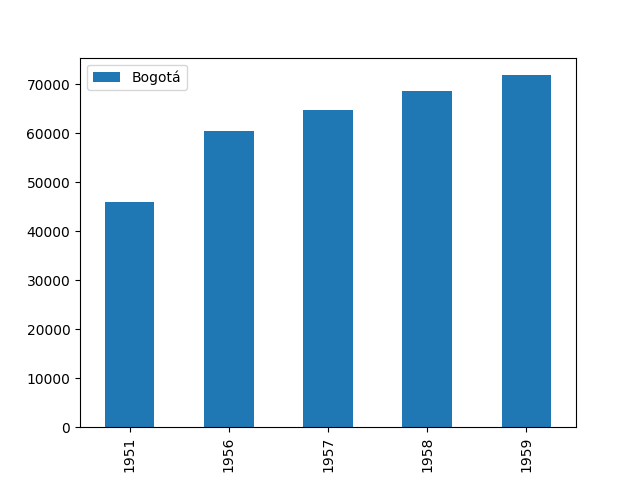
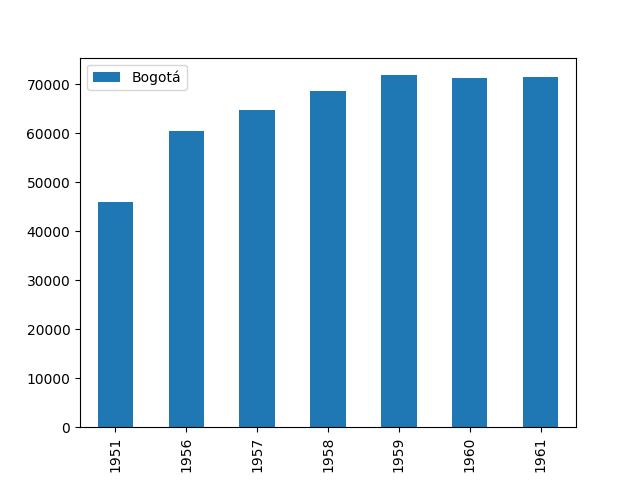
Actualización Dashboard

diff --git a/SARS-COV-2/jinja2_resultados.py b/SARS-COV-2/jinja2_resultados.py
@@ -12,7 +12,7 @@ data = [[45939, 21574, 2876, 1815, 1646],
 
 data = pd.DataFrame(
     data = data,
-    index = [1951, 1956, 1957, 1958, 1959],
+    index = [1951, 1956, 1957, 1958, 1959, 1960, 1961],
     columns = ['Bogotá', 'Medellín', 'Cali', 'Barranquilla', 'Cartagena']
 )
 
